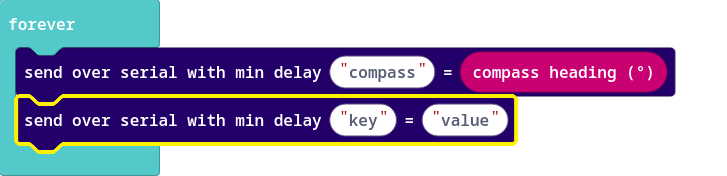
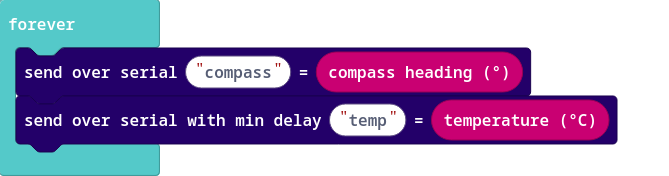
SerialSend

diff --git a/main.ts b/main.ts
@@ -1,4 +1,4 @@
 basic.forever(function () {
-    custom.sendSerialWithMinInterval("compass", "" + (input.compassHeading()))
-    custom.sendSerialWithMinInterval("key", "value")
+    custom.sendSerial("compass", "" + (input.compassHeading()))
+    custom.sendSerialWithMinInterval("temp", "" + (input.temperature()))
 })
